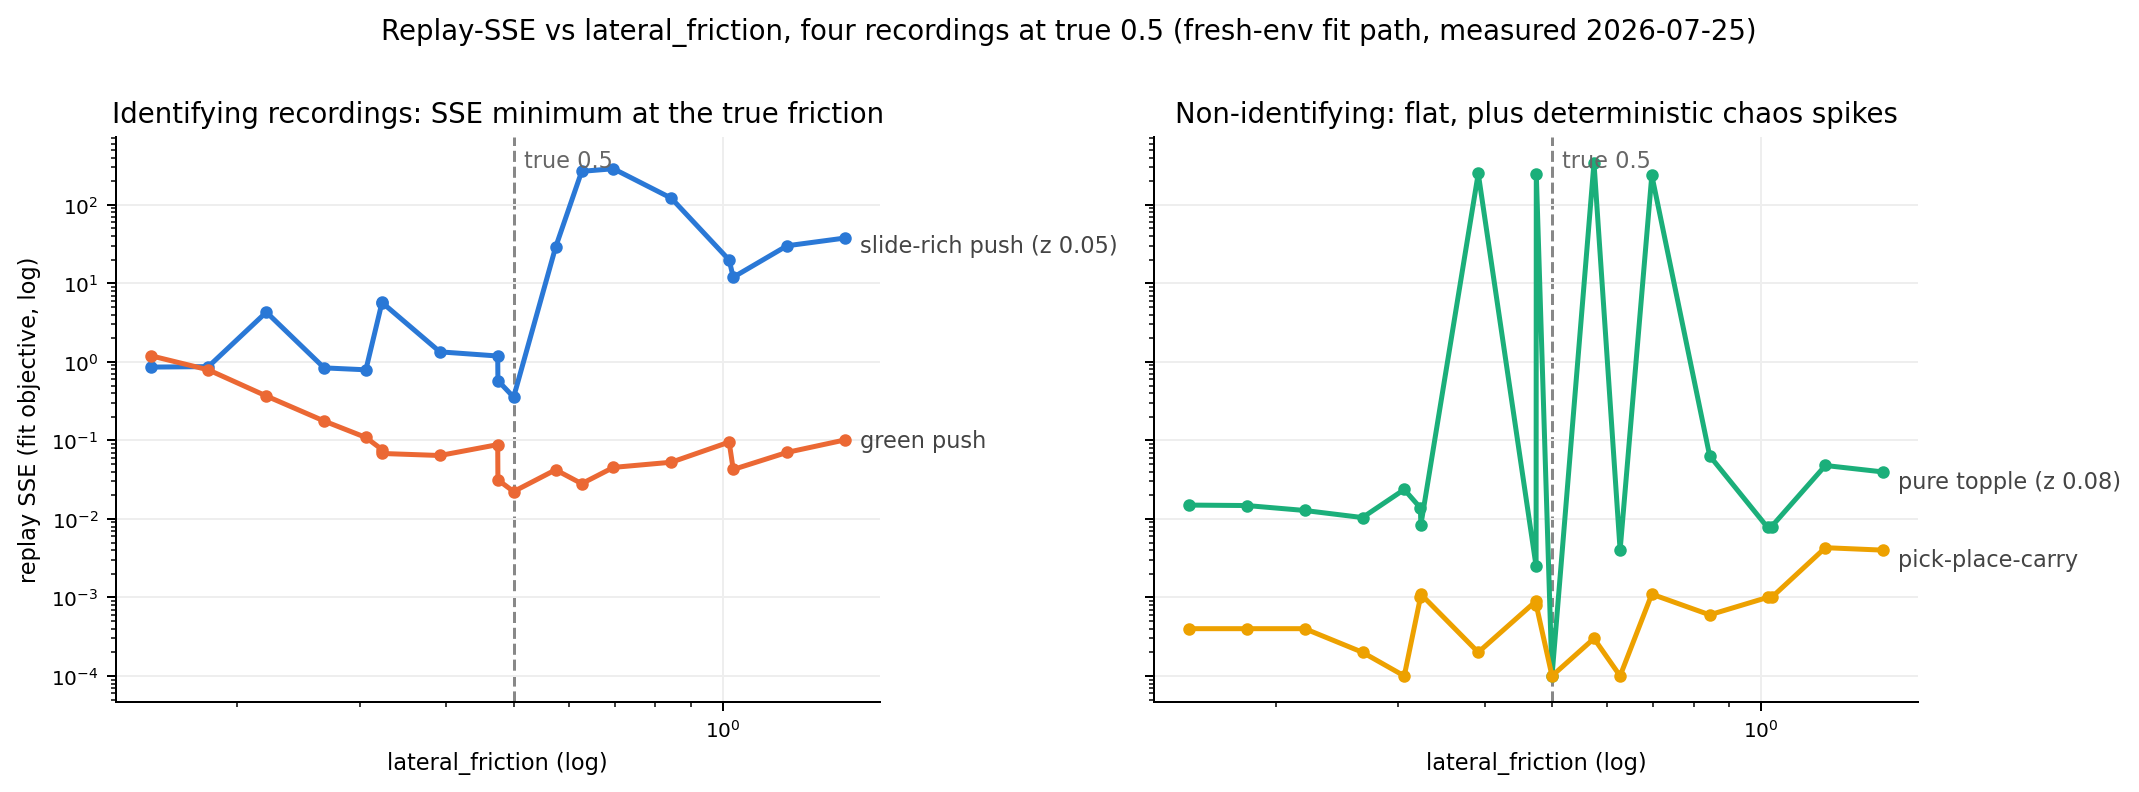
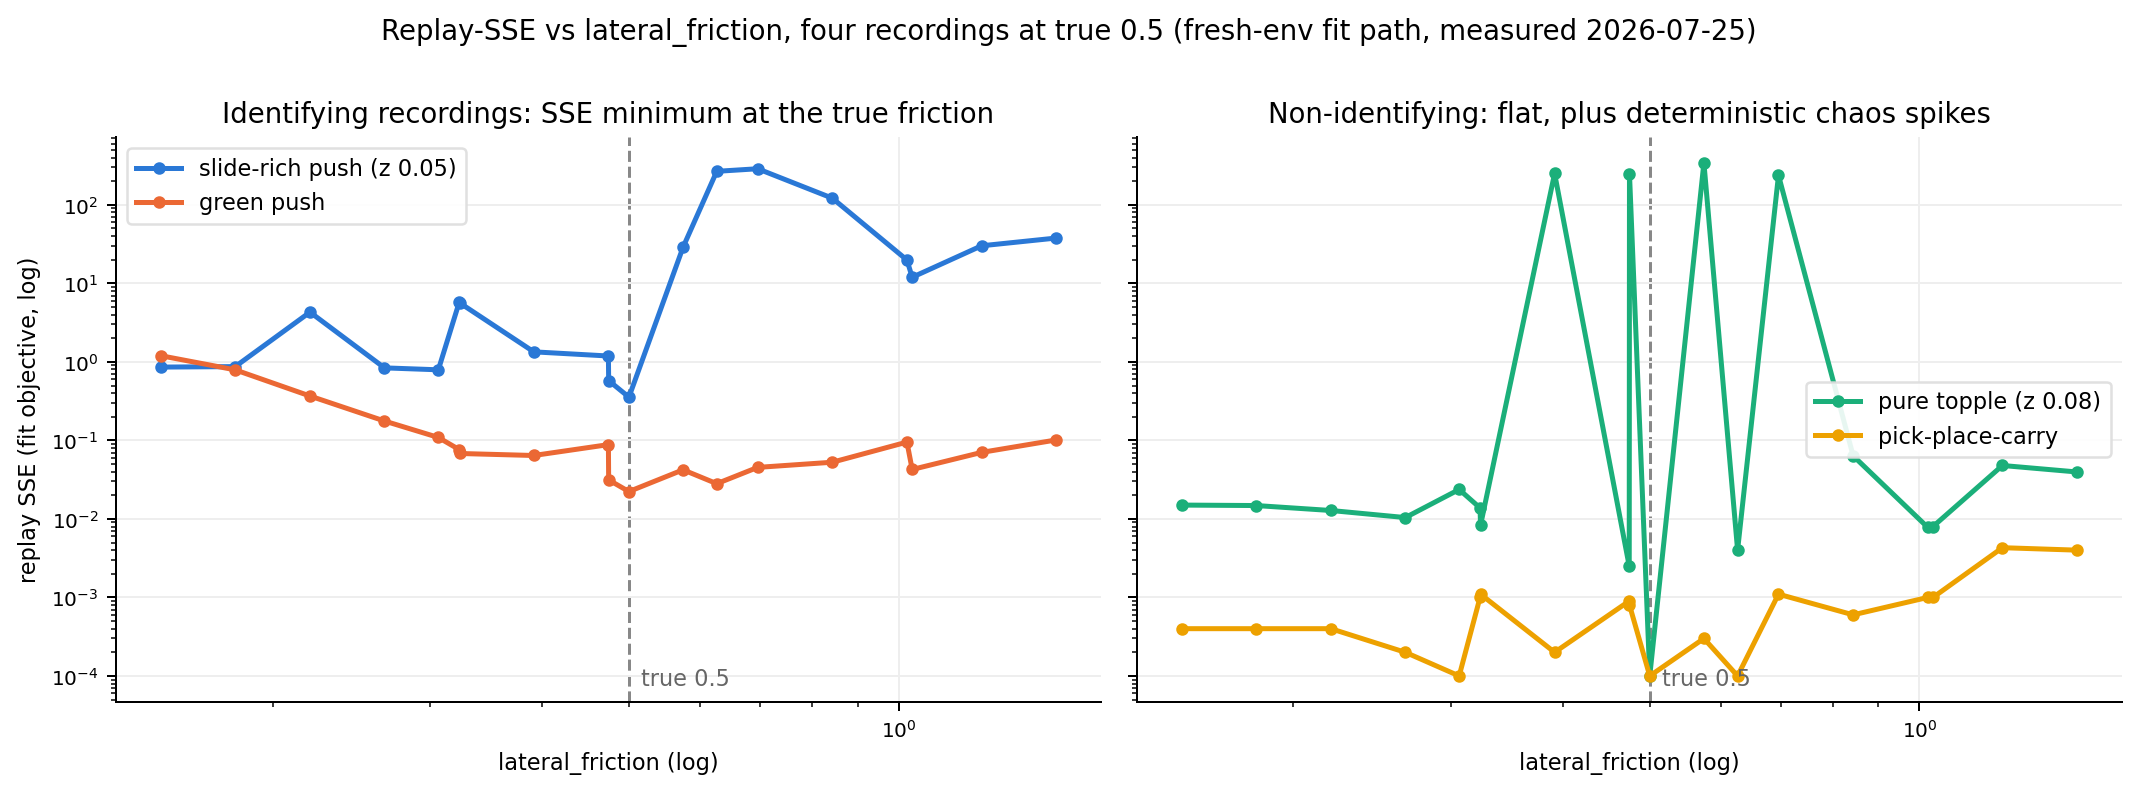
docs/sysid: redraw the pipeline figure around the landed honesty fixes
The pipeline diagram was still telling the pre-#99 story: red badges on
four failure modes with the remedies listed as "planned". All six fixes
have since landed on master (PRs #99-#103), so the badges are now green
and each one names the run that motivated it, with the legend stating
what it replaced.

Content changes to the diagram:
- New DATA-lane box for declaration evidence (sim.residuals with
  open-loop rollout plus per-param box sweep), and a CONSUMERS-lane box
  for the combined-substrate certificate probe.
- Stage bodies updated to what the code does now: Huber-capped SSE with
  summary terms, dropped fits feeding hull candidates, the 32-point
  sweep running over the disagreement hull, INCONSISTENT swept rather
  than disarming the gate, dropped params reverting to registry values.

Layout and output changes:
- Box y-centers are computed in _layout() from per-lane stack heights
  instead of being hand-placed, so adding a box no longer risks silent
  overlap with its neighbour.
- draw() takes an output path and an include_legend flag, and the script
  now also emits sysid_pipeline_compact.png for decks that carry the
  caption themselves.

The landscape figure gets real matplotlib legends in place of the
end-of-line annotations, which collided with the curves once the y-range
widened, and the "true 0.5" marker moves to the bottom of the axes.

diff --git a/docs/sysid/make_sysid_pipeline_fig.py b/docs/sysid/make_sysid_pipeline_fig.py
@@ -2,10 +2,10 @@
 
 One box per pipeline stage, grouped into four lanes (data collection,
 fit orchestration, uncertainty accounting, consumers), each annotated
-with the module that implements it. Red badges mark the failure modes
-observed in run_20260724_232411 (seeds 1-2: fits 1.0358 / 0.3236 vs
-true lateral_friction 0.5), with the planned stage-1 remedies listed in
-the legend. Regenerate with:
+with the module that implements it. Green badges mark the stage-1
+honesty fixes that landed on master in PRs #99-#103 (2026-07-30), each
+labelled with the run that motivated it; the legend states what each
+one replaced. Regenerate with:
 
     PYTHONPATH=. python docs/sysid/make_sysid_pipeline_fig.py
 """
@@ -18,12 +18,14 @@ import matplotlib.pyplot as plt
 from matplotlib.patches import FancyArrowPatch, FancyBboxPatch
 
 OUT = Path(__file__).parent / "sysid_pipeline.png"
+# Legend-free variant for slide decks that carry the caption themselves.
+OUT_COMPACT = Path(__file__).parent / "sysid_pipeline_compact.png"
 
 LANE_FILL = "#f4f4f4"
 BOX_FILL = "#ffffff"
 BOX_EDGE = "#555555"
 HEADER_COLORS = ["#3d6b99", "#3d8a5f", "#8a6d3d", "#7a4f8a"]
-FLAG_COLOR = "#c0392b"
+FLAG_COLOR = "#1a7a1a"
 
 LANES = [
     (12.0, "DATA (real env, true params)"),
@@ -32,60 +34,83 @@ LANES = [
     (87.0, "CONSUMERS"),
 ]
 LANE_W = 23.0
+# Vertical band the stacked stage boxes may occupy, and the largest gap
+# to leave between two boxes (a sparse lane centers instead of spreading).
+LANE_BOTTOM = 8.0
+LANE_TOP = 52.0
+MAX_GAP = 3.2
 
-# (id, lane, y_center, height, title, body, flag)
+# (id, lane, height, title, body, flag), listed top to bottom per lane;
+# y centers are computed in _layout so boxes cannot drift into each other.
 BOXES = [
-    ("A1", 0, 46.0, 9.0, "Explore episodes",
+    ("A1", 0, 7.5, "Explore episodes",
      "agent_bilevel explorer, 2/cycle\n"
      "-> LowLevelTrajectory\n"
-     "poses @ 20 Hz, no velocities", None),
-    ("A2", 0, 31.0, 11.0, "Learn session artifact", "sandbox/simulator.py:\n"
+     "12 Hz pose setpoints, no velocities", None),
+    ("A2", 0, 10.0, "Declaration evidence",
+     "sim.residuals(rollout=True):\n"
+     "open-loop replay + per-param\n"
+     "box sweep; a flat sweep is the\n"
+     "honest reason to omit a param",
+     "5  declaring is a decision"),
+    ("A3", 0, 8.5, "Learn session artifact", "sandbox/simulator.py:\n"
      "PHYSICAL_PARAMS (ParamSpec,\n"
      "log scale) + PROCESS_FEATURES\n"
      "+ rules and rule params", None),
-    ("B1", 1, 48.5, 7.0, "Trajectory prep", "settled-tail truncation\n"
+    ("B1", 1, 7.0, "Trajectory prep", "settled-tail truncation\n"
      "-> rest-point segmentation\n"
      "-> residual scaling  [trajectory_prep]", None),
-    ("B2", 1, 39.0, 8.0, "Rollout objective", "free-run replay per theta,\n"
+    ("B2", 1, 8.5, "Rollout objective", "free-run replay per theta,\n"
      "fresh env per rollout  [rollout_env]\n"
-     "per-step scaled SSE  [rollout_objective]",
-     "1  chaotic through cascades"),
-    ("B3", 1, 28.5, 8.5, "Search", "explainability trim -> per-param\n"
+     "Huber-capped SSE + summary\n"
+     "terms  [rollout_objective]", "1  robust to chaos spikes"),
+    ("B3", 1, 8.5, "Search", "explainability trim -> per-param\n"
      "grid + flat-edge refine  [grid_seed]\n"
      "-> joint LM MAP, log space,\n"
      "Gaussian prior  [lm]", None),
-    ("B4", 1, 20.0, 5.0, "Anchor ablation", "revert compensatory moves", None),
-    ("B5", 1, 12.5, 7.0, "Consistency loop",
+    ("B4", 1, 4.2, "Anchor ablation", "revert compensatory moves", None),
+    ("B5", 1, 7.5, "Consistency loop",
      "per-segment refits; on disagreement\n"
-     "DROP least trustworthy + refit", "2  discards informative data"),
-    ("C1", 2, 46.5, 8.0, "Laplace posterior", "posterior_std per param,\n"
-     "floored at 0.1 (log space)", "3  floor hides observed scatter"),
-    ("C2", 2, 35.5, 9.0, "Identifiability report",
+     "DROP least trustworthy + refit;\n"
+     "dropped fits -> hull candidates",
+     "2  the doubt is kept"),
+    ("C1", 2, 8.0, "Laplace posterior", "posterior_std per param,\n"
+     "floored at 0.1 (log space)", "3  floor is a lower bound"),
+    ("C2", 2, 10.0, "Identifiability report",
      "posterior/prior contraction:\n"
      "identified / weakly / NOT /\n"
-     "INCONSISTENT across cycles", "4  INCONSISTENT disarms gate"),
-    ("C3", 2, 26.0, 7.0, "Trustworthy selection", "select_trustworthy_params\n"
+     "INCONSISTENT across cycles,\n"
+     "arbitrated on pooled SSE", "4  INCONSISTENT is swept"),
+    ("C3", 2, 5.5, "Trustworthy selection", "select_trustworthy_params\n"
      "-> applied dict (physical only)", None),
-    ("C4", 2, 16.5, 7.5, "Margin grid", "physics_sigma_points: 32-point\n"
-     "+-1 sigma fit-space grid\n"
+    ("C4", 2, 8.0, "Margin grid", "physics_sigma_points: 32 points\n"
+     "over the DISAGREEMENT HULL\n"
+     "(sigma band + all candidates)\n"
      "-> ctx.physics_margin_provider", None),
-    ("D1", 3, 47.5, 7.0, "Belief env", "applied to base env for planning;\n"
-     "fresh validation envs re-apply", None),
-    ("D2", 3, 36.5, 10.0, "Capture gate", "evaluate_option_plan: parse ->\n"
+    ("D1", 3, 7.0, "Belief env", "applied to base env for planning;\n"
+     "fresh validation envs re-apply;\n"
+     "dropped params revert to registry", None),
+    ("D2", 3, 10.0, "Capture gate", "evaluate_option_plan: parse ->\n"
      "legitimacy -> 3x/6x decorrelated\n"
-     "validation -> 32-pt margin sweep\n"
+     "validation -> 32-pt hull sweep\n"
      "-> PARAM-SENSITIVE on failure", None),
-    ("D3", 3, 27.0, 6.0, "Agent pre-check",
+    ("D3", 3, 6.5, "Certificate probe",
+     "legitimacy replays run on base sim\n"
+     "+ learned rules  [probe factory]",
+     "6  the agent's own substrate"),
+    ("D4", 3, 5.5, "Agent pre-check",
      "sim.run(plan, physics_sweep=True)\n"
      "same grid, one rollout per point", None),
-    ("D4", 3, 18.0, 7.0, "Exploration ensemble",
+    ("D5", 3, 5.5, "Exploration ensemble",
      "6 Laplace members -> explorer\n"
      "info-seeking disagreement", None),
 ]
 
 ARROWS = [
     ("A1", "B1"),
-    ("A2", "B2"),
+    ("A1", "A2"),
+    ("A2", "A3"),
+    ("A3", "B2"),
     ("B1", "B2"),
     ("B2", "B3"),
     ("B3", "B4"),
@@ -96,37 +121,62 @@ ARROWS = [
     ("C3", "C4"),
     ("C3", "D1"),
     ("C4", "D2"),
-    ("C4", "D3"),
-    ("C1", "D4"),
+    ("D2", "D3"),
+    ("C4", "D4"),
 ]
 
 LEGEND = (
-    "Red badges: failure modes observed in run_20260724_232411 "
-    "(true friction 0.5; seed1 fit 1.0358, seed2 fits 0.3236 -> 0.6267, "
-    "both 0/1 on the test task; seed0 fit 0.5033 solved 1/1).\n"
-    "Planned stage-1 remedies:  [1] Huber-capped residuals + "
-    "summary statistics (settled poses, net displacement, onset times) "
-    "+ divergence guard;  [2] keep disagreeing segments and widen;\n"
-    "[3] sweep the disagreement HULL (union of per-segment and per-cycle "
-    "fits) instead of the floored sigma;  [4] INCONSISTENT widens the "
-    "sweep instead of disarming it (and holds the last TRUSTED value).")
+    "Green badges: honesty fixes landed on master 2026-07-30 (PRs "
+    "#99-#103), each replacing a measured failure mode.\n"
+    "[1] Huber cap + summary-statistic residuals (settled poses, motion "
+    "onset), replacing bare per-step SSE that one chaos spike could "
+    "steer;  [2] a dropped segment's own-best fits become hull "
+    "candidates - what leaves the mean reappears in the variance;\n"
+    "[3] the floored posterior_std is a lower bound only: the swept "
+    "interval is the disagreement HULL (sigma band widened to every "
+    "candidate fit);  [4] INCONSISTENT is swept and held on the last "
+    "TRUSTED value (it used to disarm the gate), with flagged jumps "
+    "arbitrated on pooled SSE;\n"
+    "[5] declaring PHYSICAL_PARAMS is an explicit decision backed by an "
+    "open-loop sweep, not a silent omission;  [6] certificate replays "
+    "judge plans on the combined substrate the agent plans on.\n"
+    "Drivers: run_20260724_232411 (fits 1.0358 / 0.3236 -> 0.6267 vs "
+    "true 0.5, both 0/1), run_20260724_140531 (failure hole AT truth), "
+    "run_20260727_210827 (sticky biased fit), al_margin seeds 1-2 "
+    "(sysID skipped, gate stuck at the prior).")
 
 
 def _lane_x(lane):
     return LANES[lane][0]
 
 
-def draw():
-    fig, ax = plt.subplots(figsize=(21, 11.5))
+def _layout():
+    """Y center per box: equal gaps, each lane's stack vertically centered."""
+    ys = {}
+    for lane in range(len(LANES)):
+        boxes = [b for b in BOXES if b[1] == lane]
+        total = sum(b[2] for b in boxes)
+        gaps = max(len(boxes) - 1, 1)
+        gap = min(MAX_GAP, (LANE_TOP - LANE_BOTTOM - total) / gaps)
+        span = total + gap * (len(boxes) - 1)
+        y = LANE_TOP - (LANE_TOP - LANE_BOTTOM - span) / 2.0
+        for bid, _, h, *_rest in boxes:
+            ys[bid] = y - h / 2.0
+            y -= h + gap
+    return ys
+
+
+def draw(out=OUT, include_legend=True):
+    fig, ax = plt.subplots(figsize=(21, 11.5 if include_legend else 10.0))
     ax.set_xlim(0, 100)
-    ax.set_ylim(0, 60)
+    ax.set_ylim(0 if include_legend else 5.5, 60)
     ax.axis("off")
 
     for li, (cx, title) in enumerate(LANES):
         ax.add_patch(
-            FancyBboxPatch((cx - LANE_W / 2, 7.5),
+            FancyBboxPatch((cx - LANE_W / 2, 6.0),
                            LANE_W,
-                           48.0,
+                           49.5,
                            boxstyle="round,pad=0.4",
                            facecolor=LANE_FILL,
                            edgecolor="none",
@@ -150,8 +200,10 @@ def draw():
                 zorder=3)
 
     centers = {}
-    for bid, lane, yc, h, title, body, flag in BOXES:
+    y_centers = _layout()
+    for bid, lane, h, title, body, flag in BOXES:
         cx = _lane_x(lane)
+        yc = y_centers[bid]
         w = LANE_W - 2.0
         ax.add_patch(
             FancyBboxPatch((cx - w / 2, yc - h / 2),
@@ -209,16 +261,18 @@ def draw():
                             connectionstyle=style,
                             zorder=1))
 
-    ax.text(2.0,
-            5.2,
-            LEGEND,
-            ha="left",
-            va="top",
-            fontsize=9.0,
-            linespacing=1.5)
-    fig.savefig(OUT, dpi=200, bbox_inches="tight")
-    print(f"wrote {OUT}")
+    if include_legend:
+        ax.text(2.0,
+                4.3,
+                LEGEND,
+                ha="left",
+                va="top",
+                fontsize=9.0,
+                linespacing=1.5)
+    fig.savefig(out, dpi=200, bbox_inches="tight")
+    print(f"wrote {out}")
 
 
 if __name__ == "__main__":
     draw()
+    draw(OUT_COMPACT, include_legend=False)

diff --git a/docs/sysid/make_sysid_landscape_fig.py b/docs/sysid/make_sysid_landscape_fig.py
@@ -59,8 +59,8 @@ AQUA = "#1baf7a"
 YELLOW = "#eda100"
 
 
-def _plot(ax, series, title):
-    for vals, color, label, label_y in series:
+def _plot(ax, series, title, legend_loc):
+    for vals, color, label, _ in series:
         vals = [max(v, FLOOR) for v in vals]
         ax.plot(THETAS,
                 vals,
@@ -68,17 +68,12 @@ def _plot(ax, series, title):
                 linewidth=2,
                 marker="o",
                 markersize=4,
-                zorder=3)
-        ax.annotate(label, (THETAS[-1], label_y),
-                    xytext=(6, 0),
-                    textcoords="offset points",
-                    color="#444444",
-                    fontsize=9,
-                    va="center")
+                zorder=3,
+                label=label)
     ax.axvline(0.5, color="#888888", linestyle="--", linewidth=1.2, zorder=1)
-    ax.annotate("true 0.5", (0.5, 1.0),
+    ax.annotate("true 0.5", (0.5, 0.02),
                 xycoords=("data", "axes fraction"),
-                xytext=(4, -12),
+                xytext=(5, 2),
                 textcoords="offset points",
                 color="#666666",
                 fontsize=9)
@@ -88,6 +83,11 @@ def _plot(ax, series, title):
     ax.set_xlabel("lateral_friction (log)", fontsize=9)
     ax.grid(True, which="major", color="#eeeeee", linewidth=0.8, zorder=0)
     ax.tick_params(labelsize=8)
+    ax.legend(loc=legend_loc,
+              fontsize=9,
+              frameon=True,
+              framealpha=0.9,
+              edgecolor="#dddddd")
     for spine in ("top", "right"):
         ax.spines[spine].set_visible(False)
 
@@ -97,11 +97,12 @@ def main():
     _plot(ax1, [
         (SLIDE_PUSH, BLUE, "slide-rich push (z 0.05)", 30.0),
         (GREEN_PUSH, ORANGE, "green push", 0.1),
-    ], "Identifying recordings: SSE minimum at the true friction")
+    ], "Identifying recordings: SSE minimum at the true friction", "upper left")
     _plot(ax2, [
         (PURE_TOPPLE, AQUA, "pure topple (z 0.08)", 0.03),
         (CARRY_ONLY, YELLOW, "pick-place-carry", 0.003),
-    ], "Non-identifying: flat, plus deterministic chaos spikes")
+    ], "Non-identifying: flat, plus deterministic chaos spikes",
+          "center right")
     ax1.set_ylabel("replay SSE (fit objective, log)", fontsize=9)
     fig.suptitle(
         "Replay-SSE vs lateral_friction, four recordings at true 0.5 "

diff --git a/docs/sysid/README.md b/docs/sysid/README.md
@@ -1,9 +1,10 @@
 # Physical system identification pipeline
 
-`sysid_pipeline_slides.html` is a self-contained reveal.js deck explaining the sysID stack end to end: why it exists, every pipeline stage with the implementing module, the measured failure modes of run_20260724_232411, the stage-1 honesty fixes (commits `8d32ab853` + `6cc812a99`), honest limits, and the stage-2 roadmap.
+`../slides/sysid_pipeline_slides.html` is a self-contained reveal.js deck explaining the sysID stack end to end: why it exists, every pipeline stage with the implementing module, the measured failure modes of run_20260724_232411 and its neighbours, the honesty fixes that landed on `master` in PRs #99-#103, the 2026-07-29 result batch, honest limits, and the stage-2 roadmap.
 Open it in a browser; press S for speaker notes.
+It references both figures below as `../sysid/*.png`, so keep the deck and this directory in the same tree.
 
-`sysid_pipeline.png` is the one-page diagram of the same pipeline (data collection, fit orchestration in `predicators/code_sim_learning/`, uncertainty accounting, consumers), with red badges on the observed failure modes.
+`sysid_pipeline.png` is the one-page diagram of the same pipeline (data collection, fit orchestration in `predicators/code_sim_learning/`, uncertainty accounting, consumers), with green badges on the six honesty fixes and the run that motivated each.
 
 `sysid_landscapes.png` shows measured replay-SSE landscapes for four recordings at the true friction: which interaction data identifies the parameter (slide-rich pushes) and which cannot (pure topples with deterministic chaos spikes, carry motion).
 
